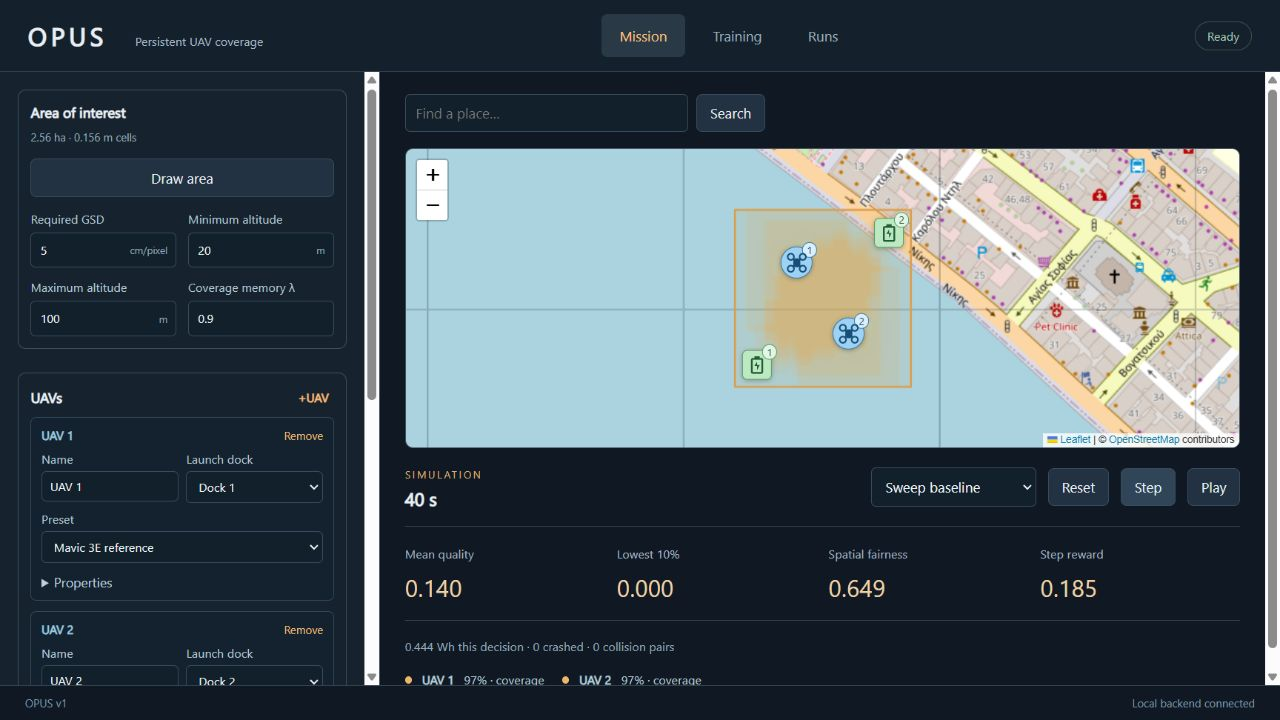
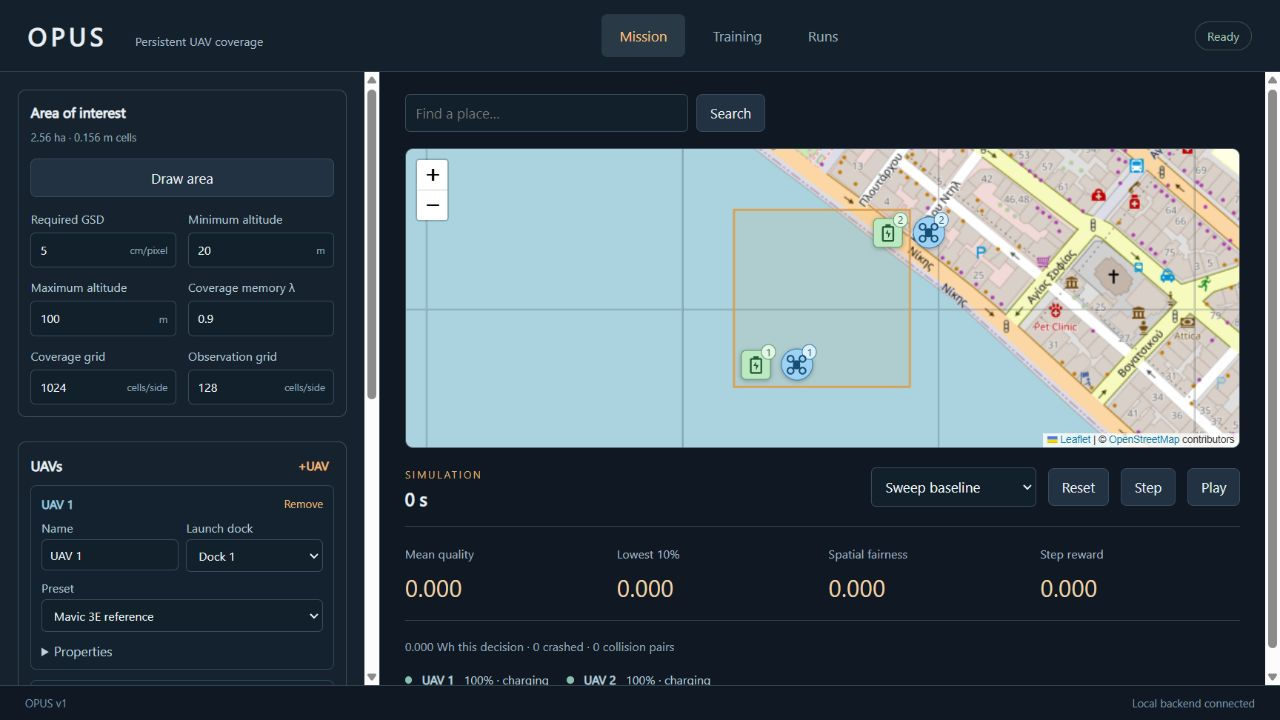
Move grid fields directly into Area of interest

diff --git a/opus_rl/app/frontend/app.js b/opus_rl/app/frontend/app.js
@@ -240,9 +240,8 @@ function renderStation() {
 }
 function renderForms() {
   const s=config.scenario,properties=schema.$defs.ScenarioConfig.properties;
-  numericFields('mission-fields',s,['required_gsd_m','min_altitude_m','max_altitude_m','coverage_lambda'],'scenario',properties);
+  numericFields('mission-fields',s,['required_gsd_m','min_altitude_m','max_altitude_m','coverage_lambda','grid_size','observation_size'],'scenario',properties);
   numericFields('episode-fields',s,['delta_t','horizon'],'scenario',properties);
-  numericFields('grid-fields',s,['grid_size','observation_size'],'scenario',properties);
   renderUAVs();renderStation();
   const main=['total_steps','num_envs','rollout_steps','evaluation_frequency','evaluation_episodes','evaluation_horizon','checkpoint_frequency','seed'];
   numericFields('training-fields',config.training,main,'training',schema.$defs.TrainConfig.properties);

diff --git a/opus_rl/app/frontend/index.html b/opus_rl/app/frontend/index.html
@@ -26,7 +26,6 @@
       <div class="toolbar"><button id="place-station">Place docks</button><button id="clear-docks" class="text-button">Clear</button></div>
       <small class="field-error" data-error-path="scenario.station_positions_wgs84" hidden></small>
     </div>
-    <details class="group"><summary>Grid</summary><div id="grid-fields" class="fields"></div></details>
     <button id="validate" class="primary full">Validate mission</button>
   </section>
   <section id="training-controls" hidden>

diff --git a/README.md b/README.md
@@ -41,7 +41,7 @@ The isolated environment is named **OPUS**. Activate it with `conda activate OPU
 1. Search the map for a place. Choose **Draw area**, left-click vertices, and right-click to close the polygon. Completed vertices snap to the coverage grid when validated; the area and cell-size figures update with the mission.
 2. Add each aircraft with **+UAV**. Each framed UAV entry has its own **Name**, **Preset**, and **Launch dock**, even when several aircraft use the same preset. Choose one charging-station preset and **Number of docks**, then place those numbered docks. Shared launch docks stage UAVs for sequential takeoff. Camera and energy-model settings remain under UAV **Properties**. Reference specifications and assumptions are in [PRESETS.md](docs/PRESETS.md).
 3. Choose **Validate mission**. **Reset**, **Step**, and **Play** show a sweep baseline, random actions, or a loaded model. These controls do not train the actor.
-4. In **Training**, set **Step time interval ΔT**, **Episode steps**, the training budget, environment count, PPO parameters, reward weights, evaluation and checkpoint intervals, and seed. **Start training** starts a local background job. **Stop & save** finishes the current calculation and writes a final checkpoint. Grid settings remain in **Mission**.
+4. In **Training**, set **Step time interval ΔT**, **Episode steps**, the training budget, environment count, PPO parameters, reward weights, evaluation and checkpoint intervals, and seed. **Start training** starts a local background job. **Stop & save** finishes the current calculation and writes a final checkpoint. Grid settings are in **Mission → Area of interest**.
 5. **Runs** lists saved experiments. Select a checkpoint, replay it, run repeatable evaluation, or export a ZIP containing model/configuration/normalization/metrics/evaluation files.
 
 Scenario configurations are saved with each run. The application can simulate and train without internet; map tiles and user-triggered place search require a connection. Leaflet itself is bundled locally. The application does not upload scenarios, checkpoints, or experiment data.
